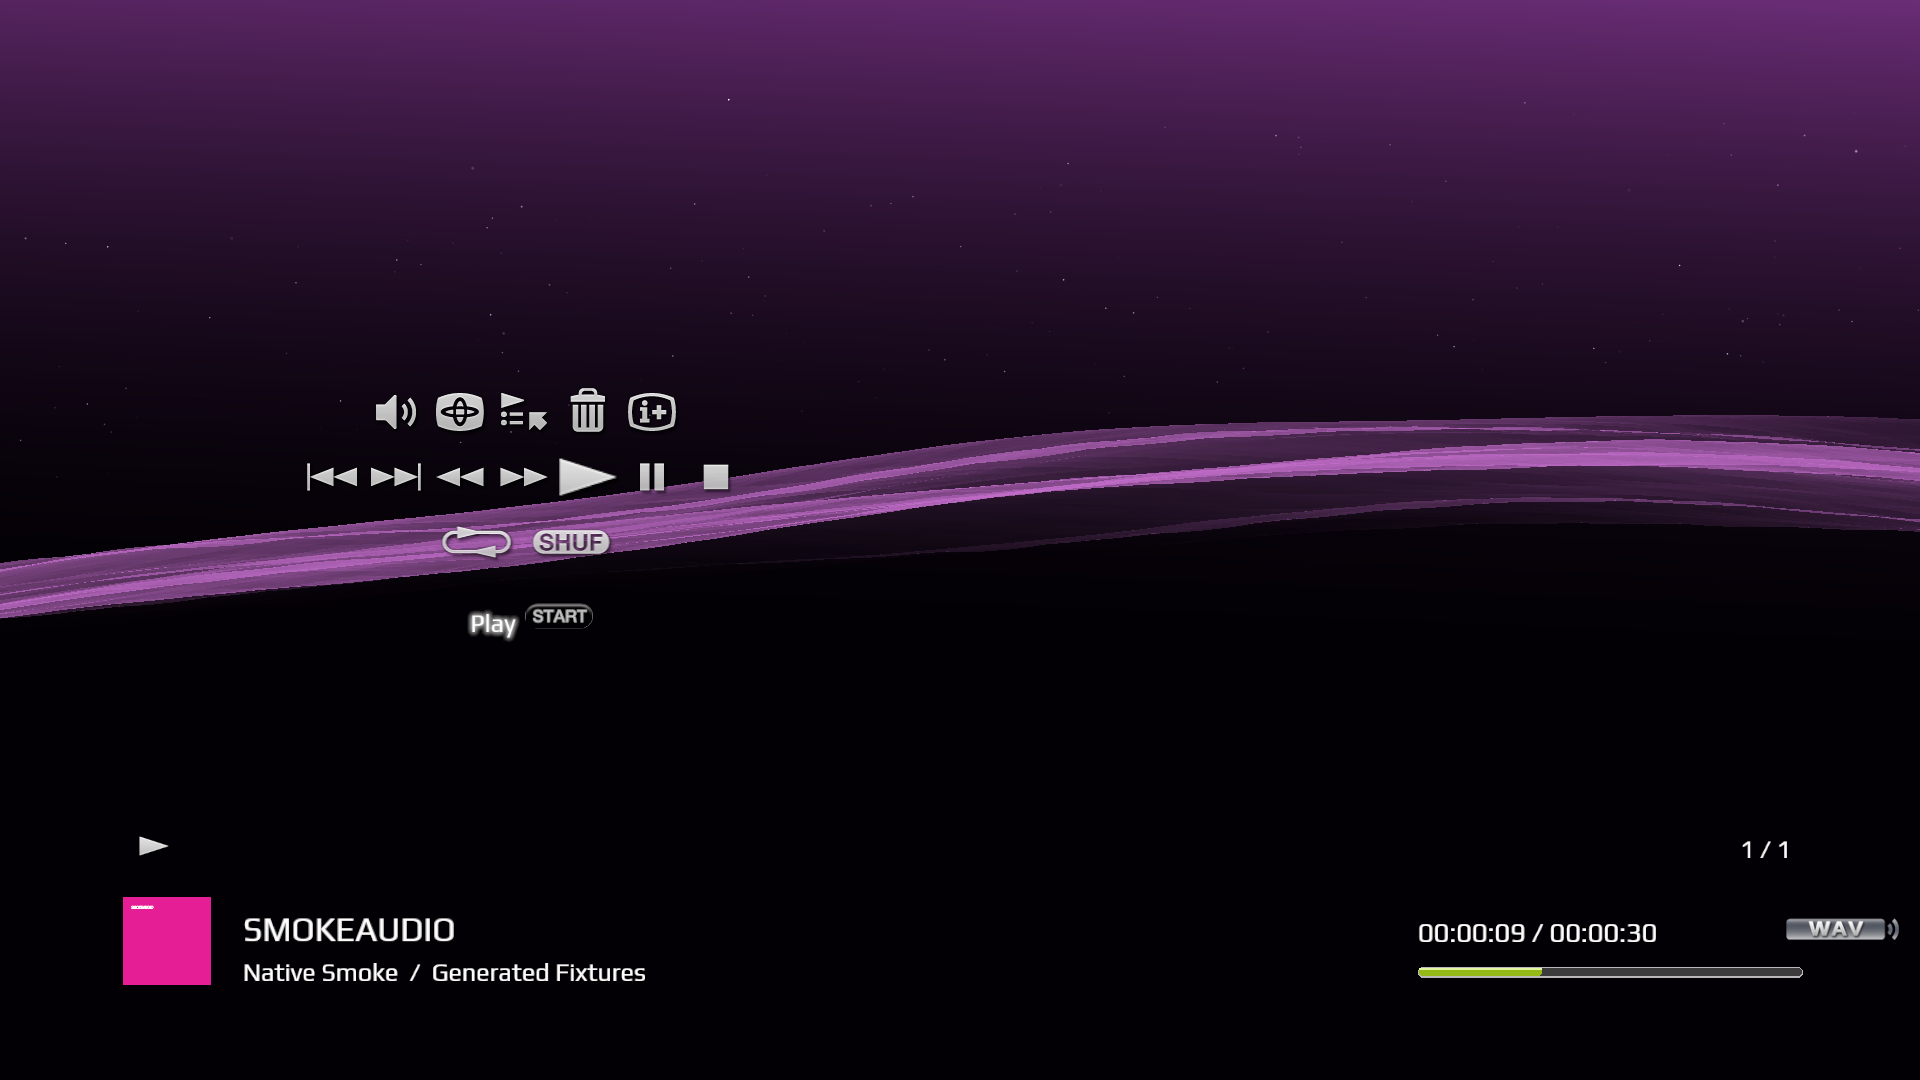
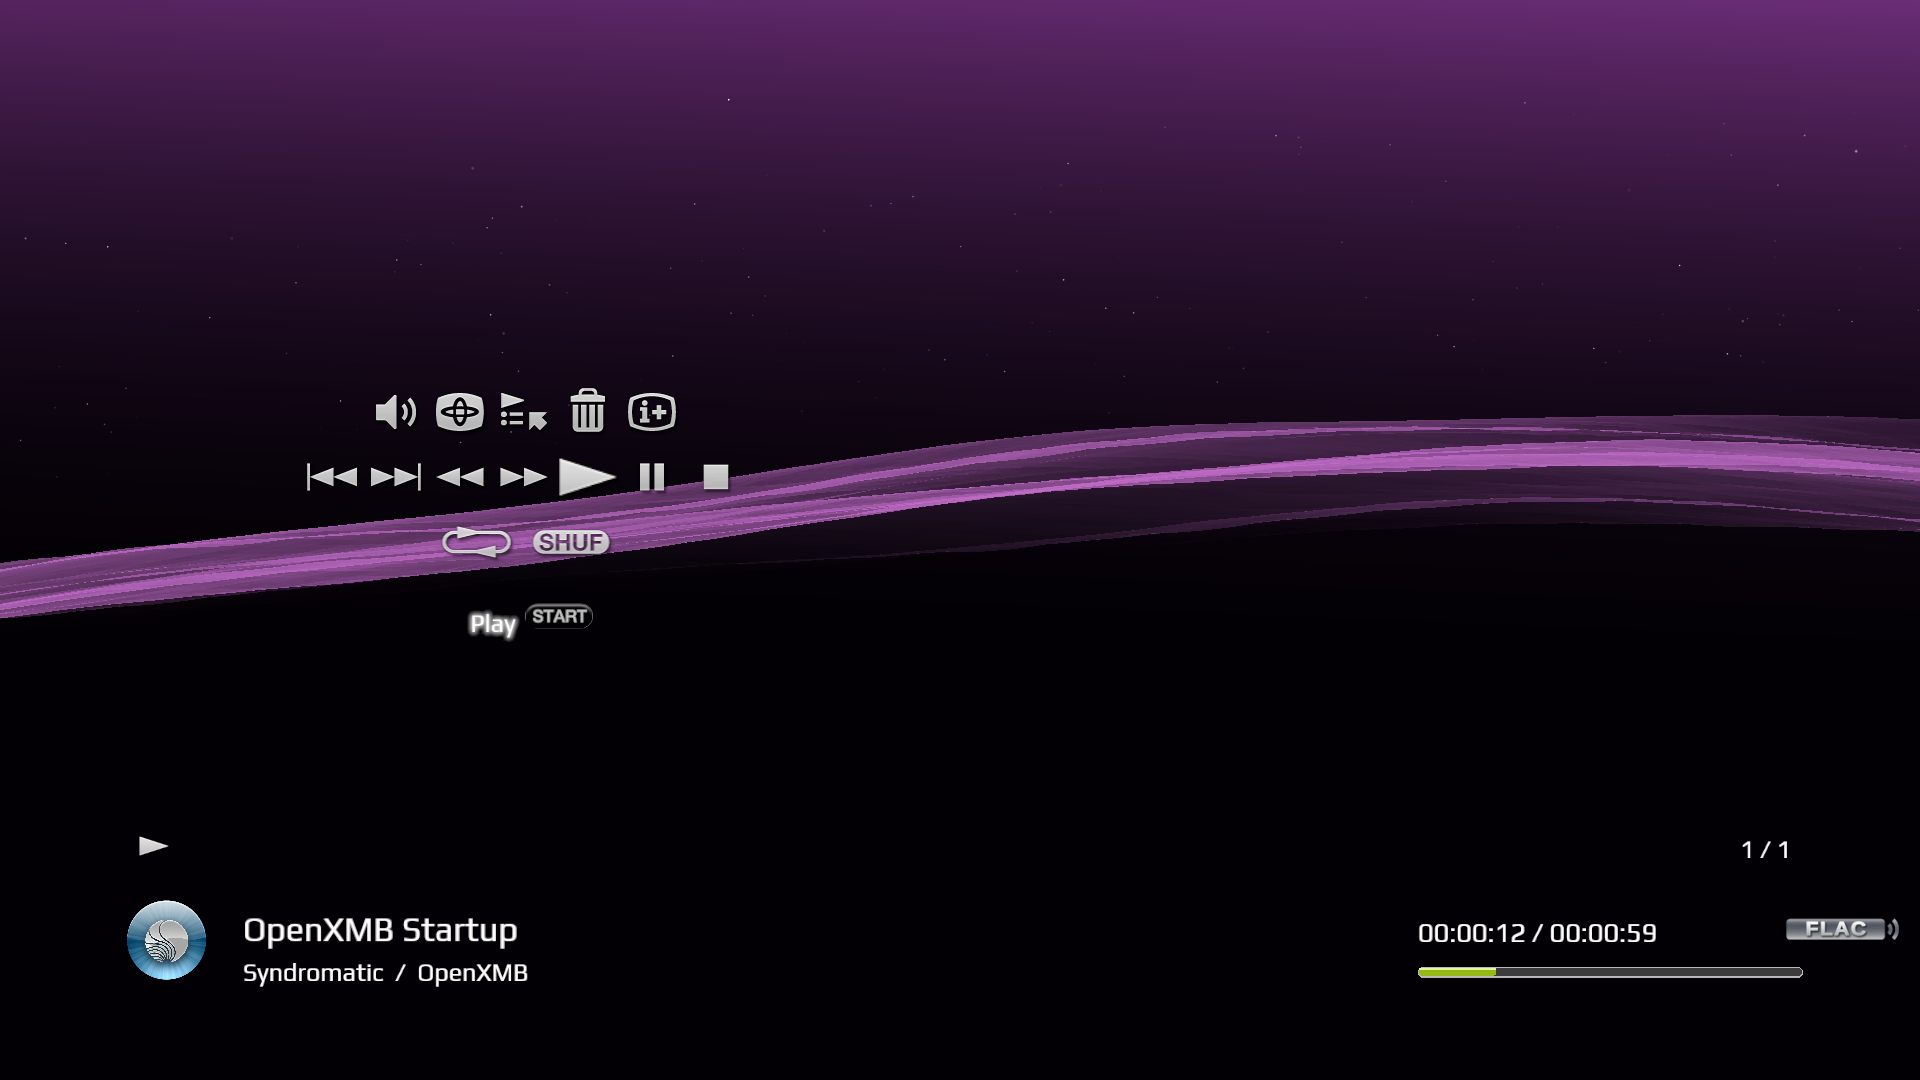
Fix theme portability and complete Beta 2 package metadata

diff --git a/src/themes/raf_runtime.cpp b/src/themes/raf_runtime.cpp
@@ -549,7 +549,13 @@ AnimationFrame sample_raf_animation(const json& descriptor,const fs::path& direc
     struct Cache {std::string key;std::unique_ptr<RafRuntime> runtime;double origin;};static thread_local std::vector<Cache> cache;
     static thread_local std::string activeKey;
     auto key=fs::weakly_canonical(directory).string()+"|"+descriptor.dump();
-    for(const auto* field:{"scene_file","script_file"})if(descriptor.contains(field)){const auto path=resource(directory,descriptor[field]);key+='|'+std::to_string(fs::last_write_time(path).time_since_epoch().count())+':'+std::to_string(fs::file_size(path));}
+    for(const auto* field:{"scene_file","script_file"})if(descriptor.contains(field)){
+        const auto path=resource(directory,descriptor[field]);
+        const auto elapsed=fs::last_write_time(path).time_since_epoch();
+        const auto seconds=std::chrono::duration_cast<std::chrono::seconds>(elapsed);
+        const auto nanoseconds=std::chrono::duration_cast<std::chrono::nanoseconds>(elapsed-seconds);
+        key+='|'+std::to_string(seconds.count())+'.'+std::to_string(nanoseconds.count())+':'+std::to_string(fs::file_size(path));
+    }
     auto it=std::find_if(cache.begin(),cache.end(),[&](const Cache& c){return c.key==key;});
     if(it==cache.end()){if(cache.size()>=2)cache.erase(cache.begin());const ImportLimits limits;json scene;
         if(descriptor.contains("scene"))scene=descriptor["scene"];else{auto source=load(resource(directory,descriptor.at("scene_file")),limits.file_bytes);scene=json::parse(source.begin(),source.end());}

diff --git a/scripts/packaging/package.py b/scripts/packaging/package.py
@@ -106,7 +106,10 @@ def windows(stage, destination):
         source = next((prefix / 'tools/ffmpeg').rglob(name))
         shutil.copy2(source, app / name)
     poppler = Path(os.environ['OPENXMB_POPPLER_BIN'])
-    shutil.copytree(poppler.parent, app / 'tools/poppler', dirs_exist_ok=True)
+    for name in ['bin', 'share', 'etc']:
+        source = poppler.parent / name
+        if source.is_dir():
+            shutil.copytree(source, app / 'tools/poppler' / name, dirs_exist_ok=True)
     redist = os.environ.get('VCToolsRedistDir')
     if not redist:
         raise RuntimeError('The MSVC redistributable directory is required')

diff --git a/src/config.cpp b/src/config.cpp
@@ -720,7 +720,7 @@ void config::save_to_json() {
         config["_meta"] = {
             {"project", "OpenXMB"},
             {"description", "Configuration file for the Syndromatic Open XcrossMediaBar desktop experience."},
-            {"app_version", "0.1.0-beta"},
+            {"app_version", OPENXMB_VERSION_STRING},
             {"config_version", current_config_version},
             {"author", "Kavish Krishnakumar / Syndromatic Limited Bharat Britannia"},
             {"copyright", "™ & © 2025-2026. Syndromatic Ltd. All rights reserved."},
